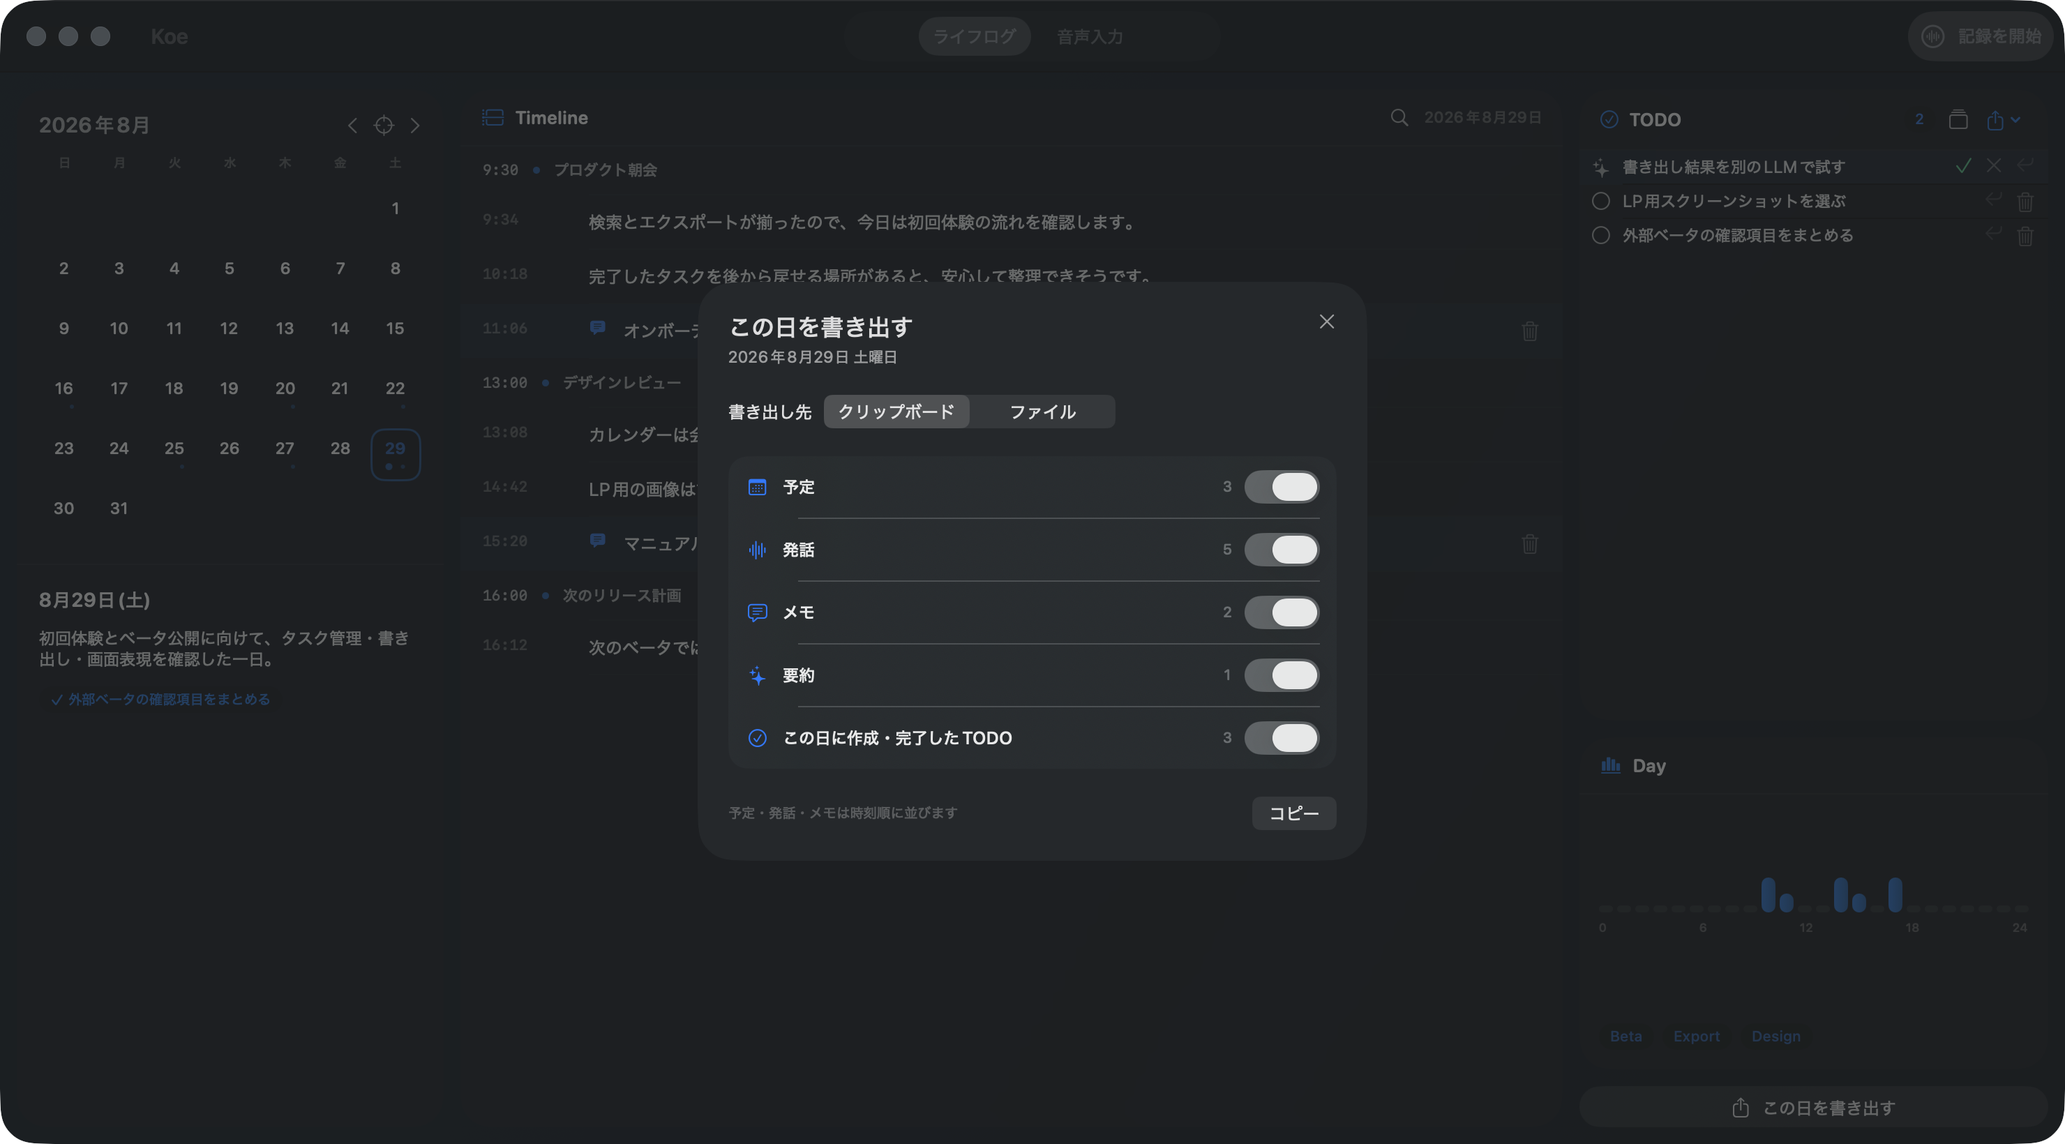
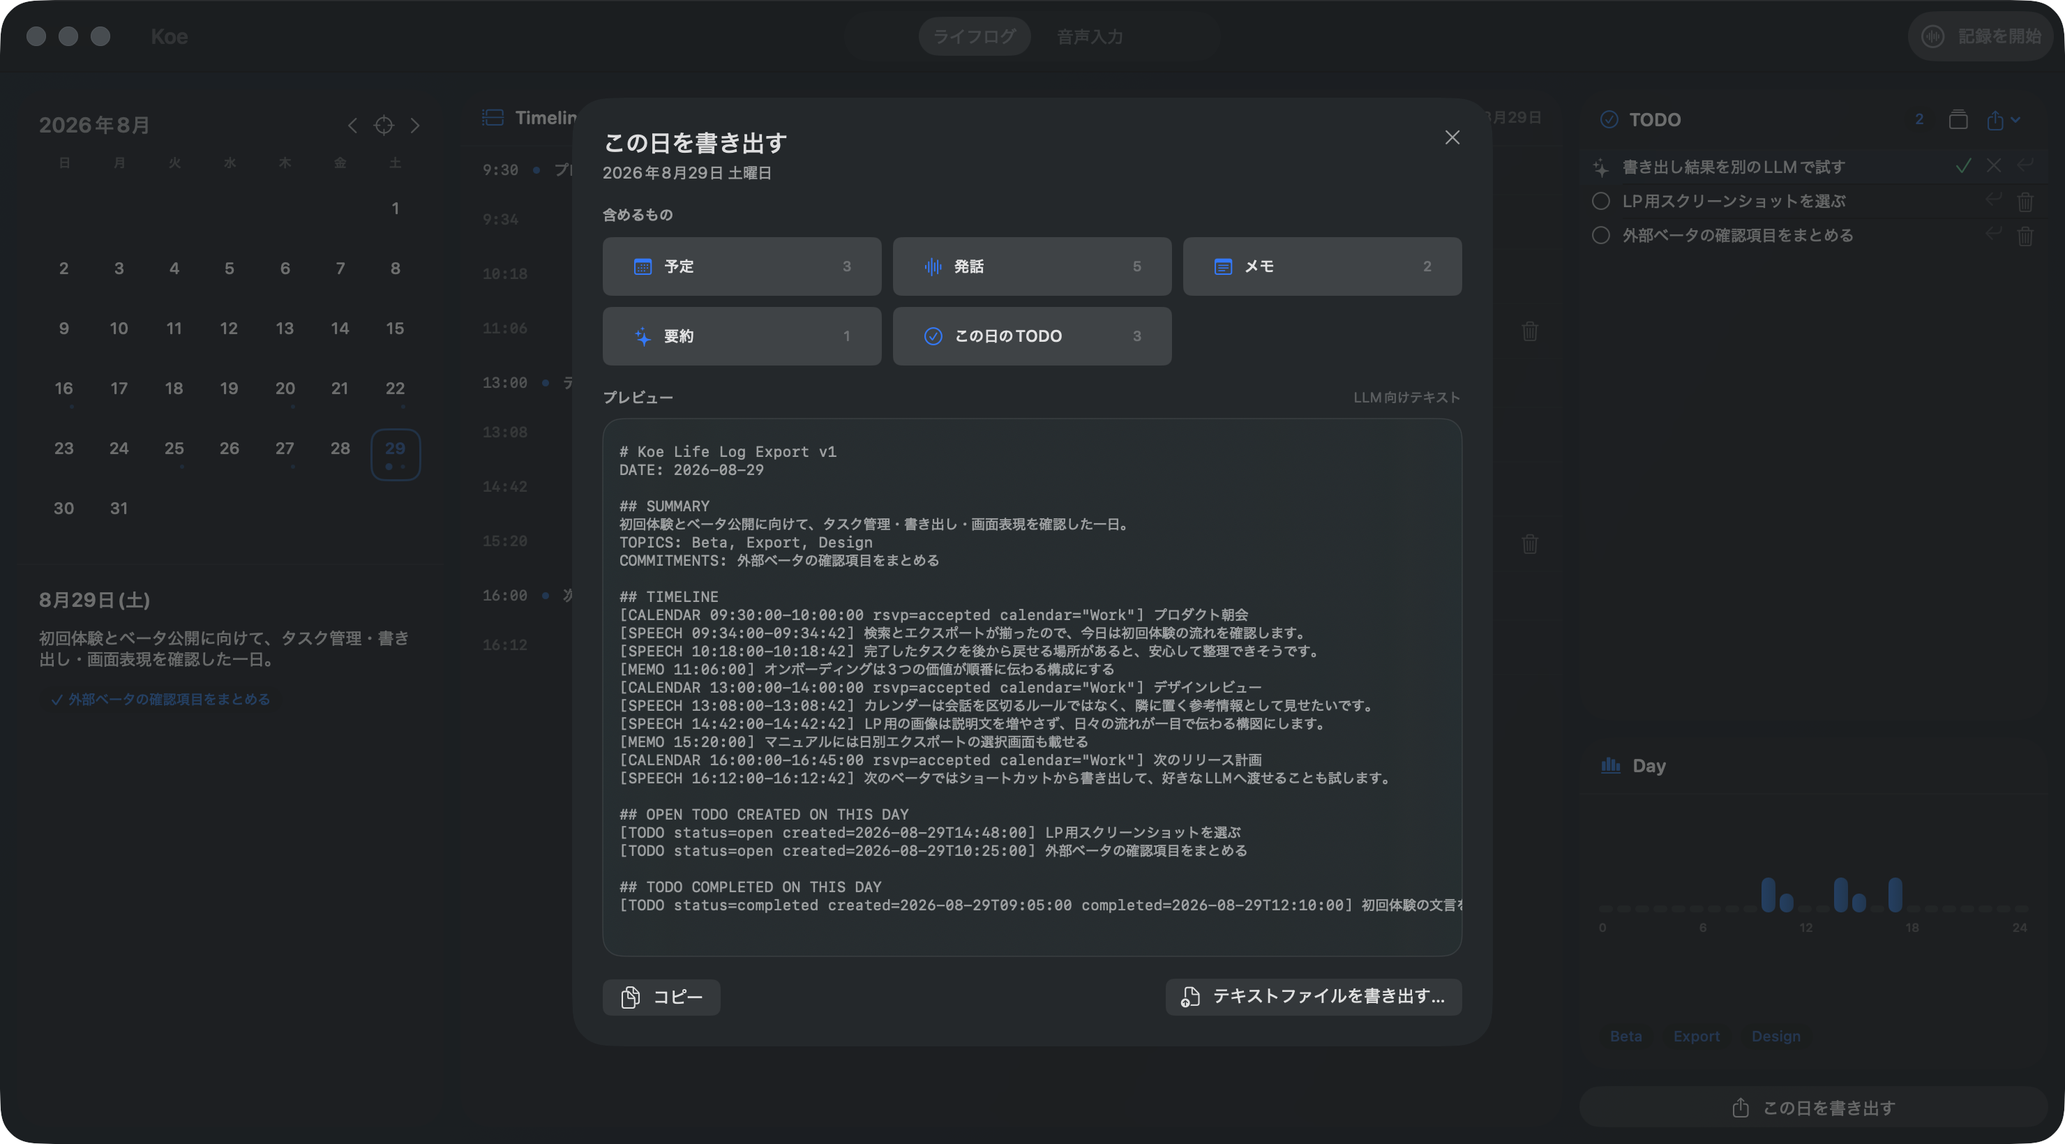
feat: refine life log onboarding and export flow

diff --git a/Sources/KoeKit/UI/OnboardingView.swift b/Sources/KoeKit/UI/OnboardingView.swift
@@ -4,52 +4,82 @@ struct OnboardingView: View {
     var env: AppEnvironment
 
     var body: some View {
-        VStack(spacing: 28) {
-            VStack(spacing: 10) {
+        VStack(spacing: 18) {
+            VStack(spacing: 9) {
                 Image(systemName: "waveform.badge.mic")
-                    .font(.system(size: 42, weight: .light))
+                    .font(.system(size: 38, weight: .light))
                     .foregroundStyle(KoeTheme.voiceGradient)
-                Text("声を、そのまま使える形に")
+                Text("話して過ごす毎日を、あなたの資産に。")
                     .font(.system(size: 24, weight: .semibold, design: .rounded))
-                Text("音声入力と、一日の発話を振り返るライフログ。\n処理の中心はこのMacの中です。")
+                Text("Koeは、日々話したことや、ふと残したメモをAIで整理します。\n振り返り、TODO、日記が、いつもの一日から自然に積み上がります。")
                     .multilineTextAlignment(.center)
                     .font(.system(size: 13))
                     .foregroundStyle(.secondary)
             }
 
-            HStack(spacing: 12) {
-                permissionCard(
-                    symbol: "mic.fill",
-                    title: "聞き取る",
-                    detail: "通常の音声入力は\n音声を保存しません",
-                    granted: env.isMicrophoneGranted,
-                    action: { Task { await env.requestMicrophone() } }
+            LazyVGrid(columns: [GridItem(.flexible(), spacing: 10), GridItem(.flexible())], spacing: 10) {
+                valueCard(
+                    symbol: "lightbulb.max",
+                    title: "気づきを、流さない",
+                    detail: "会話で生まれた考えを、そのまま一日の記録へ。"
                 )
-                permissionCard(
-                    symbol: "cursorarrow.motionlines",
-                    title: "どこでも入力",
-                    detail: "ホットキーと\n文字の貼り付けに使用",
-                    granted: env.isAccessibilityGranted,
-                    action: {
-                        env.requestAccessibility()
-                        Permissions.openAccessibilitySettings()
-                    }
+                valueCard(
+                    symbol: "checkmark.circle",
+                    title: "やるべきことを、取りこぼさない",
+                    detail: "約束や次の行動を、確認できるTODO候補へ。"
                 )
-                permissionCard(
-                    symbol: "calendar",
-                    title: "予定を重ねる",
-                    detail: "カレンダーは任意、\n閲覧だけに使用",
-                    granted: !env.lifeLog.availableCalendars.isEmpty,
-                    action: { Task { await env.lifeLog.loadCalendars() } }
+                valueCard(
+                    symbol: "arrow.trianglehead.2.clockwise.rotate.90",
+                    title: "振り返るほど、次がよくなる",
+                    detail: "発話・メモ・予定から、一日の流れを短時間で把握。"
+                )
+                valueCard(
+                    symbol: "book.closed",
+                    title: "気づけば、日記になっている",
+                    detail: "書き起こさなくても、その日の出来事が積み上がる。"
                 )
             }
 
-            Label(
-                "ライフログを始めるときだけ、復旧用の音声をMac内へ保存する確認が表示されます。",
-                systemImage: "externaldrive.badge.checkmark"
-            )
-            .font(.system(size: 11.5))
-            .foregroundStyle(.secondary)
+            HStack(spacing: 12) {
+                Image(systemName: "text.cursor")
+                    .font(.system(size: 17, weight: .medium))
+                    .foregroundStyle(KoeTheme.accent)
+                    .frame(width: 28, height: 28)
+                    .background(KoeTheme.accent.opacity(0.10), in: Circle())
+                VStack(alignment: .leading, spacing: 2) {
+                    Text("思いついたら、その場で書ける")
+                        .font(.system(size: 12.5, weight: .semibold, design: .rounded))
+                    Text("ホットキーを押して話せば、整えた文章をいま使っているアプリへ入力できます。")
+                        .font(.system(size: 10.5))
+                        .foregroundStyle(.secondary)
+                }
+                Spacer()
+            }
+            .padding(.horizontal, 14)
+            .padding(.vertical, 10)
+            .background(.thinMaterial, in: RoundedRectangle(cornerRadius: 15))
+
+            VStack(spacing: 10) {
+                Text("はじめる準備")
+                    .font(.system(size: 11, weight: .semibold, design: .rounded))
+                    .foregroundStyle(.secondary)
+                HStack(spacing: 8) {
+                    permissionButton(symbol: "mic.fill", title: "マイク", granted: env.isMicrophoneGranted) {
+                        Task { await env.requestMicrophone() }
+                    }
+                    permissionButton(symbol: "cursorarrow.motionlines", title: "入力操作", granted: env.isAccessibilityGranted) {
+                        env.requestAccessibility()
+                        Permissions.openAccessibilitySettings()
+                    }
+                    permissionButton(symbol: "calendar", title: "カレンダー（任意）", granted: !env.lifeLog.availableCalendars.isEmpty) {
+                        Task { await env.lifeLog.loadCalendars() }
+                    }
+                }
+                Text("通常の音声入力は音声を保存しません。ライフログ開始時だけ、復旧用音声をMac内へ保存する前に確認します。")
+                    .font(.system(size: 10.5))
+                    .foregroundStyle(.tertiary)
+                    .multilineTextAlignment(.center)
+            }
 
             Button("Koeを始める") {
                 env.settings.onboardingCompleted = true
@@ -58,8 +88,8 @@ struct OnboardingView: View {
             .controlSize(.large)
             .keyboardShortcut(.defaultAction)
         }
-        .padding(34)
-        .frame(width: 650, height: 510)
+        .padding(30)
+        .frame(width: 760, height: 680)
         .background {
             LinearGradient(
                 colors: [KoeTheme.accent.opacity(0.10), KoeTheme.accentSecondary.opacity(0.05), .clear],
@@ -71,38 +101,45 @@ struct OnboardingView: View {
         .task { env.refreshPermissions() }
     }
 
-    private func permissionCard(
+    private func valueCard(
         symbol: String,
         title: String,
-        detail: String,
-        granted: Bool,
-        action: @escaping () -> Void
+        detail: String
     ) -> some View {
-        Button(action: action) {
-            VStack(alignment: .leading, spacing: 13) {
-                HStack {
-                    Image(systemName: symbol)
-                        .font(.system(size: 19, weight: .medium))
-                        .foregroundStyle(KoeTheme.accent)
-                    Spacer()
-                    Image(systemName: granted ? "checkmark.circle.fill" : "arrow.up.right.circle")
-                        .foregroundStyle(granted ? KoeTheme.success : Color.secondary.opacity(0.45))
-                }
+        HStack(alignment: .top, spacing: 11) {
+            Image(systemName: symbol)
+                .font(.system(size: 16, weight: .medium))
+                .foregroundStyle(KoeTheme.accent)
+                .frame(width: 23)
+            VStack(alignment: .leading, spacing: 5) {
                 Text(title)
-                    .font(.system(size: 14, weight: .semibold, design: .rounded))
+                    .font(.system(size: 12.5, weight: .semibold, design: .rounded))
                 Text(detail)
-                    .font(.system(size: 11.5))
+                    .font(.system(size: 10.5))
                     .foregroundStyle(.secondary)
-                    .multilineTextAlignment(.leading)
-            }
-            .padding(16)
-            .frame(maxWidth: .infinity, minHeight: 142, alignment: .topLeading)
-            .background(.regularMaterial, in: RoundedRectangle(cornerRadius: 20, style: .continuous))
-            .overlay {
-                RoundedRectangle(cornerRadius: 20, style: .continuous)
-                    .stroke(.white.opacity(0.16), lineWidth: 0.7)
+                    .fixedSize(horizontal: false, vertical: true)
             }
         }
-        .buttonStyle(.plain)
+        .padding(13)
+        .frame(maxWidth: .infinity, minHeight: 76, alignment: .topLeading)
+        .background(.regularMaterial, in: RoundedRectangle(cornerRadius: 17, style: .continuous))
+        .overlay {
+            RoundedRectangle(cornerRadius: 17, style: .continuous)
+                .stroke(.white.opacity(0.16), lineWidth: 0.7)
+        }
+    }
+
+    private func permissionButton(symbol: String, title: String, granted: Bool, action: @escaping () -> Void) -> some View {
+        Button(action: action) {
+            HStack(spacing: 7) {
+                Image(systemName: symbol)
+                Text(title)
+                Image(systemName: granted ? "checkmark.circle.fill" : "arrow.up.right.circle")
+                    .foregroundStyle(granted ? KoeTheme.success : Color.secondary)
+            }
+            .font(.system(size: 11.5, weight: .medium))
+        }
+        .buttonStyle(.bordered)
+        .buttonBorderShape(.capsule)
     }
 }

diff --git a/Sources/KoeKit/UI/LifeLog/LifeLogExportSheet.swift b/Sources/KoeKit/UI/LifeLog/LifeLogExportSheet.swift
@@ -16,11 +16,11 @@ struct LifeLogExportSheet: View {
     var onExport: (LifeLogTextExporter.Options, LifeLogExportDestination) -> Bool
 
     @Environment(\.dismiss) private var dismiss
-    @State private var destination: LifeLogExportDestination = .clipboard
     @State private var options = LifeLogTextExporter.Options()
+    @State private var didCopy = false
 
     var body: some View {
-        VStack(alignment: .leading, spacing: 20) {
+        VStack(alignment: .leading, spacing: 16) {
             HStack(alignment: .top) {
                 VStack(alignment: .leading, spacing: 4) {
                     Text("この日を書き出す")
@@ -35,34 +35,58 @@ struct LifeLogExportSheet: View {
                     .foregroundStyle(.secondary)
             }
 
-            Picker("書き出し先", selection: $destination) {
-                ForEach(LifeLogExportDestination.allCases) { value in
-                    Label(value.title, systemImage: value.symbol).tag(value)
+            VStack(alignment: .leading, spacing: 9) {
+                Text("含めるもの")
+                    .font(.system(size: 11, weight: .semibold, design: .rounded))
+                    .foregroundStyle(.secondary)
+                LazyVGrid(columns: Array(repeating: GridItem(.flexible(), spacing: 8), count: 3), spacing: 8) {
+                    exportToggle("予定", symbol: "calendar", count: day.calendarEvents.count, isOn: $options.includesCalendarEvents)
+                    exportToggle("発話", symbol: "waveform", count: day.utterances.count, isOn: $options.includesUtterances)
+                    exportToggle("メモ", symbol: "note.text", count: day.memos.count, isOn: $options.includesMemos)
+                    exportToggle("要約", symbol: "sparkles", count: day.summary == nil ? 0 : 1, isOn: $options.includesSummary)
+                    exportToggle("この日のTODO", symbol: "checkmark.circle", count: dayTodoCount, isOn: $options.includesTodosForDay)
                 }
             }
-            .pickerStyle(.segmented)
 
-            VStack(spacing: 0) {
-                exportToggle("予定", symbol: "calendar", count: day.calendarEvents.count, isOn: $options.includesCalendarEvents)
-                Divider().padding(.leading, 38)
-                exportToggle("発話", symbol: "waveform", count: day.utterances.count, isOn: $options.includesUtterances)
-                Divider().padding(.leading, 38)
-                exportToggle("メモ", symbol: "text.bubble", count: day.memos.count, isOn: $options.includesMemos)
-                Divider().padding(.leading, 38)
-                exportToggle("要約", symbol: "sparkles", count: day.summary == nil ? 0 : 1, isOn: $options.includesSummary)
-                Divider().padding(.leading, 38)
-                exportToggle("この日に作成・完了したTODO", symbol: "checkmark.circle", count: dayTodoCount, isOn: $options.includesTodosForDay)
+            VStack(alignment: .leading, spacing: 8) {
+                HStack {
+                    Text("プレビュー")
+                        .font(.system(size: 11, weight: .semibold, design: .rounded))
+                        .foregroundStyle(.secondary)
+                    Spacer()
+                    Text("LLM向けテキスト")
+                        .font(.system(size: 10, design: .rounded))
+                        .foregroundStyle(.tertiary)
+                }
+                ScrollView([.vertical, .horizontal]) {
+                    Text(preview)
+                        .font(.system(size: 10.5, design: .monospaced))
+                        .foregroundStyle(.secondary)
+                        .textSelection(.enabled)
+                        .frame(maxWidth: .infinity, alignment: .topLeading)
+                        .padding(12)
+                }
+                .background(.regularMaterial, in: RoundedRectangle(cornerRadius: 14))
+                .overlay {
+                    RoundedRectangle(cornerRadius: 14)
+                        .stroke(.white.opacity(0.10), lineWidth: 0.7)
+                }
             }
-            .padding(.horizontal, 12)
-            .background(.regularMaterial, in: RoundedRectangle(cornerRadius: 14))
+            .frame(minHeight: 260)
 
             HStack {
-                Text("予定・発話・メモは時刻順に並びます")
-                    .font(.system(size: 10.5))
-                    .foregroundStyle(.tertiary)
+                Button {
+                    if onExport(options, .clipboard) { didCopy = true }
+                } label: {
+                    Label(didCopy ? "コピーしました" : "コピー", systemImage: didCopy ? "checkmark" : "doc.on.doc")
+                }
+                .buttonStyle(.bordered)
+                .disabled(!options.hasSelection)
                 Spacer()
-                Button(destination == .clipboard ? "コピー" : "保存…") {
-                    if onExport(options, destination) { dismiss() }
+                Button {
+                    if onExport(options, .file) { dismiss() }
+                } label: {
+                    Label("テキストファイルを書き出す…", systemImage: "doc.badge.arrow.up")
                 }
                 .buttonStyle(.borderedProminent)
                 .tint(KoeTheme.accent)
@@ -70,7 +94,12 @@ struct LifeLogExportSheet: View {
             }
         }
         .padding(22)
-        .frame(width: 480)
+        .frame(width: 660, height: 680)
+        .onChange(of: options) { _, _ in didCopy = false }
+    }
+
+    private var preview: String {
+        LifeLogTextExporter.render(date: date, day: day, todos: todos, options: options)
     }
 
     private var dayTodoCount: Int {
@@ -82,20 +111,23 @@ struct LifeLogExportSheet: View {
 
     private func exportToggle(_ title: String, symbol: String, count: Int, isOn: Binding<Bool>) -> some View {
         Toggle(isOn: isOn) {
-            HStack(spacing: 9) {
+            HStack(spacing: 7) {
                 Image(systemName: symbol)
                     .foregroundStyle(KoeTheme.accent)
-                    .frame(width: 18)
+                    .frame(width: 16)
                 Text(title)
-                    .font(.system(size: 12.5, weight: .medium))
+                    .font(.system(size: 11.5, weight: .medium))
                 Spacer()
                 Text("\(count)")
-                    .font(.system(size: 10.5, weight: .medium, design: .rounded))
+                    .font(.system(size: 10, weight: .medium, design: .rounded))
                     .foregroundStyle(.tertiary)
                     .monospacedDigit()
             }
+            .padding(.horizontal, 9)
+            .frame(maxWidth: .infinity, minHeight: 34)
         }
-        .toggleStyle(.switch)
-        .padding(.vertical, 10)
+        .toggleStyle(.button)
+        .buttonStyle(.bordered)
+        .tint(KoeTheme.accent)
     }
 }

diff --git a/Sources/KoeKit/UI/LifeLog/LifeLogMiniWindow.swift b/Sources/KoeKit/UI/LifeLog/LifeLogMiniWindow.swift
@@ -139,22 +139,22 @@ struct LifeLogMiniWindow: View {
     }
 
     private func memoRow(_ memo: LifeLogMemo) -> some View {
-        HStack(alignment: .bottom, spacing: 7) {
-            Spacer(minLength: 54)
-            VStack(alignment: .trailing, spacing: 4) {
-                Text(memo.text)
-                    .font(.system(size: 12.5))
-                    .textSelection(.enabled)
-                    .padding(.horizontal, 11)
-                    .padding(.vertical, 8)
-                    .background(KoeTheme.accent.opacity(0.17), in: RoundedRectangle(cornerRadius: 15))
-                Text(memo.createdAt.formatted(date: .omitted, time: .shortened))
-                    .font(.system(size: 9.5, weight: .medium, design: .monospaced))
-                    .foregroundStyle(.tertiary)
-            }
+        HStack(alignment: .top, spacing: 10) {
+            Text(memo.createdAt.formatted(date: .omitted, time: .shortened))
+                .font(.system(size: 10, weight: .medium, design: .monospaced))
+                .foregroundStyle(.tertiary)
+                .frame(width: 45, alignment: .leading)
+            Image(systemName: "note.text")
+                .font(.system(size: 10.5, weight: .semibold))
+                .foregroundStyle(KoeTheme.accent)
+                .frame(width: 14)
+            Text(memo.text)
+                .font(.system(size: 12.5))
+                .textSelection(.enabled)
+            Spacer(minLength: 0)
         }
         .padding(.horizontal, 12)
-        .padding(.vertical, 6)
+        .padding(.vertical, 9)
         .id("m-\(memo.id)")
     }
 

diff --git a/Sources/KoeKit/UI/LifeLog/LifeLogWindow.swift b/Sources/KoeKit/UI/LifeLog/LifeLogWindow.swift
@@ -219,8 +219,11 @@ public struct LifeLogWindow: View {
                 Text(value.createdAt.formatted(date: .omitted, time: .shortened))
                     .font(.system(size: 10.5, weight: .medium, design: .monospaced))
                     .foregroundStyle(.tertiary).frame(width: 64, alignment: .leading)
-                Image(systemName: "text.bubble.fill")
-                    .font(.system(size: 10)).foregroundStyle(KoeTheme.accent)
+                Image(systemName: "note.text")
+                    .font(.system(size: 11, weight: .semibold))
+                    .foregroundStyle(KoeTheme.accent)
+                    .frame(width: 16)
+                    .help("メモ")
                 Text(value.text).font(.system(size: 13)).textSelection(.enabled)
                 Spacer(minLength: 0)
                 Button { Task { await env.lifeLog.deleteMemo(id: value.id) } } label: {
@@ -229,7 +232,6 @@ public struct LifeLogWindow: View {
                 .buttonStyle(.plain).foregroundStyle(.tertiary).help("メモを削除")
             }
             .padding(.horizontal, 16).padding(.vertical, 11)
-            .background(KoeTheme.accent.opacity(0.045))
         }
     }
 
